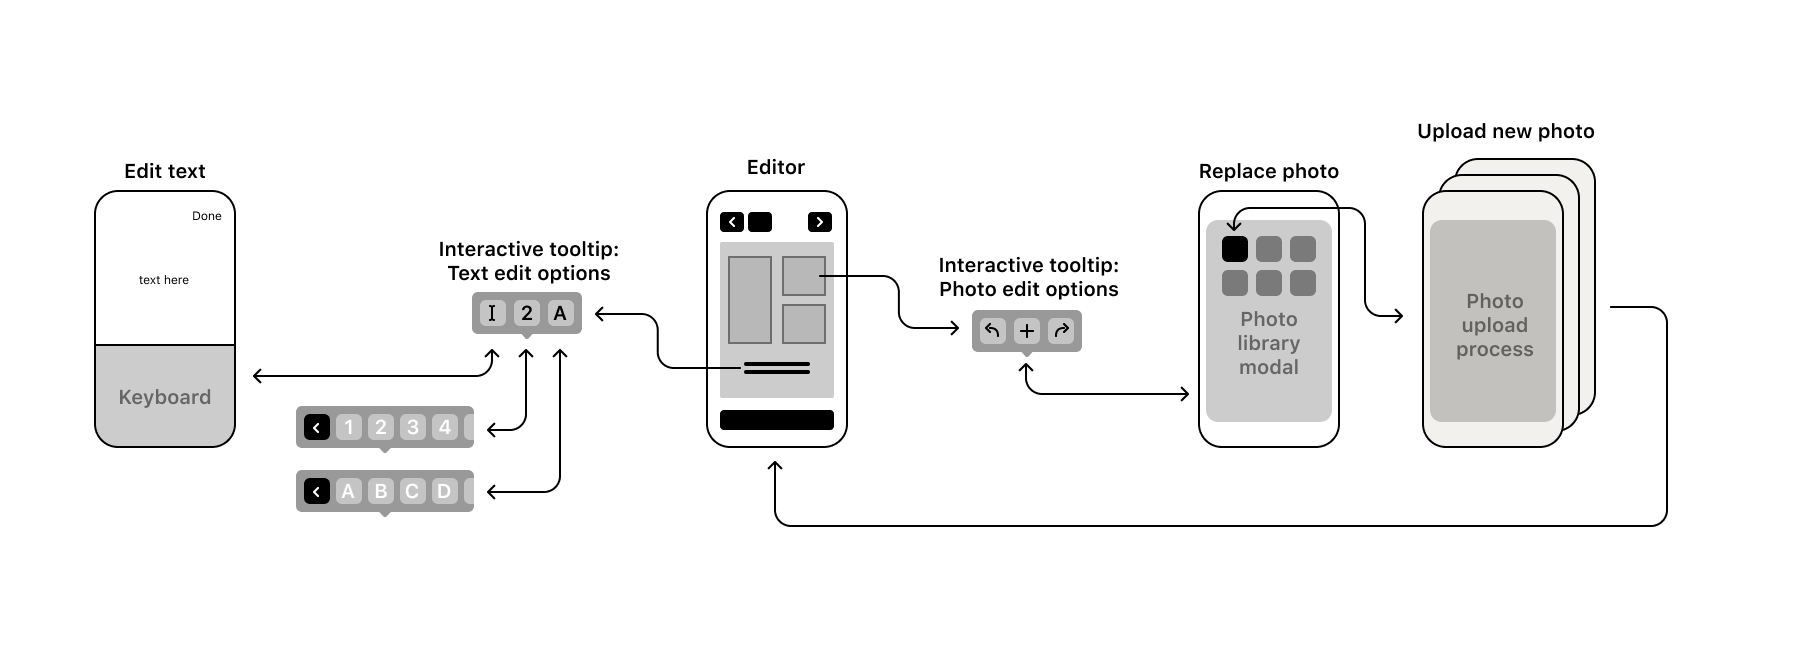
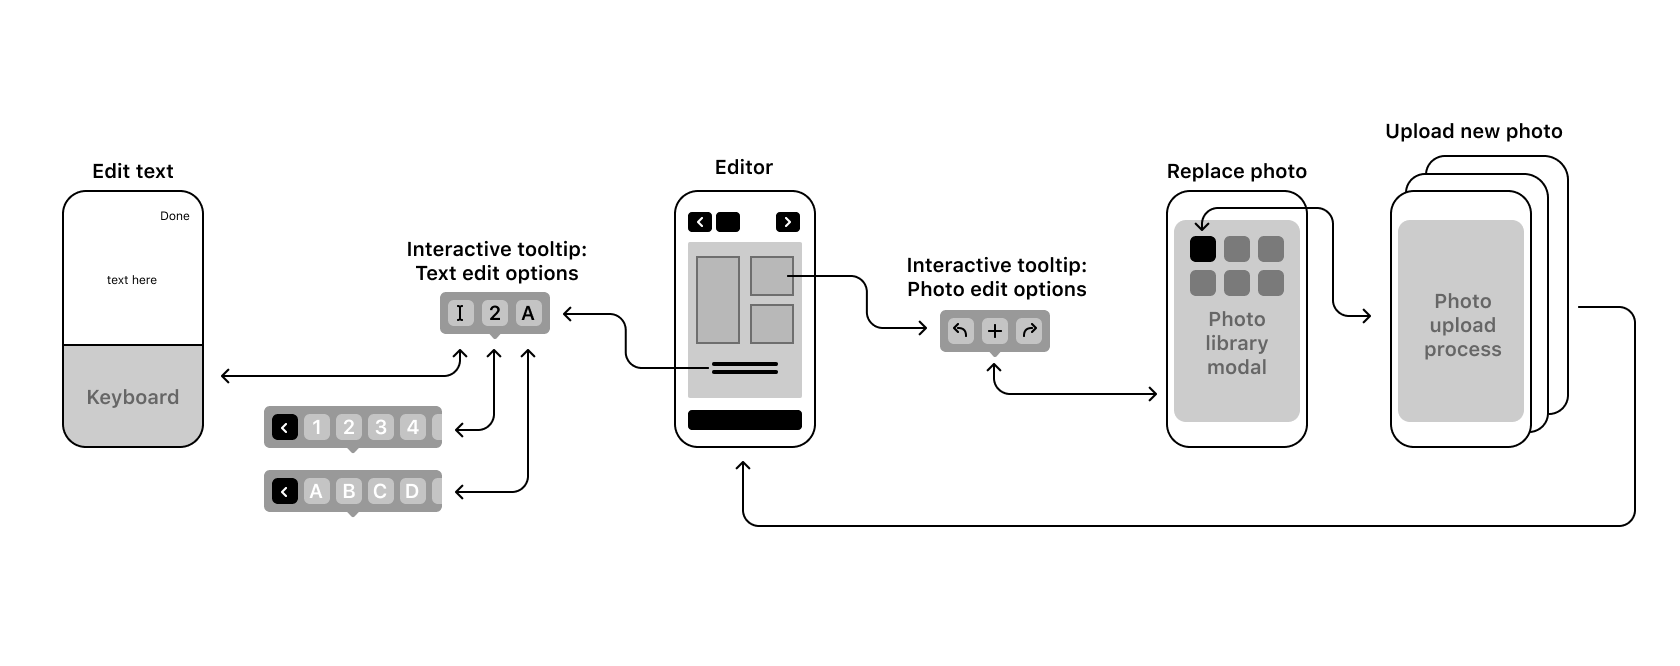
case study ordering

diff --git a/work/wedding-tools.html b/work/wedding-tools.html
@@ -64,7 +64,7 @@
         <p>There was an opportunity to step into this gap. I proposed we provide a way for wedding organizers to communicate with, and collect info from, their guests online using designs that matched their Papier wedding stationery.</p>
         <p>I led a cross-functional team on this project, bringing together commercial, customer service, creative design, and my own product design teams to deliver Papier’s first software product.</p>
         <h2>Research</h2>
-        <p>While our commercial team conducted exhaustive competitor analysis. I led a series of in-depth Jobs to be Done interviews. These insights would provide a north star for the project, and we would refer back to them often. The Jobs to be Done approach places value on the emotional context around customer behaviour, which helps us understand what drives decisions.</p>
+        <p>While our commercial team conducted exhaustive competitor analysis. I led a series of in-depth Jobs to be Done interviews. These insights would provide a north star for the project, and we would refer back to them often.</p>
         <p>We created a user journey map, laying out major wedding planning events and decisions. This helped the team contextualize the Jobs we were solving for, and later proved useful to our marketing team when it came to communicating the value proposition to our existing users at various stages in the customer lifecycle.</p>
       </div>
       <div class="content content__image">
@@ -76,21 +76,21 @@
         <p>The tool we were building was only valuable once a user had created a guest list, so adding guests was a vital part of onboarding. Our research told us that wedding organizers often had their own guests stored in spreadsheets already, so we made the option of uploading a spreadsheet a priority.</p>
       </div>
       <div class="content content__image">
-        <img src="../images/wedding-flow1.png" alt="">
+        <img src="../images/wedding-flow1.png" alt="" style="max-width: max-content;">
       </div>
       <div class="content content__text">
         <h2>Message Creation</h2>
         <p>Users would be able to create pages that they could share with guests via email or a sharable link. The wedding organizers could choose a design at this point - one that matched their pinted Papier stationery. These pages could become a save the date message, a request for mailing address, or a detailed multi-question RSVP form. </p>
       </div>
       <div class="content content__image">
-        <img src="../images/wedding-flow2.png" alt="">
+        <img src="../images/wedding-flow2.png" alt="" style="max-width: max-content;">
       </div>
       <div class="content content__text">
         <h2>The guest experience</h2>
         <p>Organizers would be able to share their messages in two ways: email, and a sharable link. The link in each email sent was specifically tied to that guest, but a 'public' link would be accessed by anybody. As a result we built a guest identification system - after clicking the link, a guest would have to type their own name in, which would allow them to submit RSVP replies.</p>
       </div>
       <div class="content content__image">
-        <img src="../images/wedding-flow3.png" alt="">
+        <img src="../images/wedding-flow3.png" alt="" style="max-width: max-content;">
       </div>
       <div class="content content__text">
         <p>Looking back, the assumption that users would choose the sharable link over the email delivery option was incorrect, and we spent too much time designing and building this user flow.</p>

diff --git a/work/stationery-editor.html b/work/stationery-editor.html
@@ -62,21 +62,8 @@
         <p>In 2020 I led a redesign of the Papier stationery editor - the step in the buying process where the user gets to add their own text, image, and design flair to the stationery items.</p>
         <h2>Research</h2>
         <p>Qualitative research revealed why we were seeing a poor conversion rate on mobile. There was confusion about how to progress, technical issues with touch interactions around text selection, and problems with how browser behaved with on-screen elements. With 75% of traffic on mobile this was something we needed to address.</p>
-      </div>
-      <div class="content content__image">
-        <img src="../images/ppp.png" alt="">
-      </div>
-      <p class="content content__text caption-centre">something</p>
-      <div class="content content__text">
         <h2>Approach</h2>
         <p>I spoke with our engineering team and we decided on a two-pronged approach. They would rewrite the technology behind the editor, while I would work to improve the interactions.</p>
-        <p>The solution needed to balance a b and c</p>
-      </div>
-      <div class="content content__image">
-        <img src="../images/editor-flow.png" alt="">
-      </div>
-      <p class="content content__text caption-centre">something</p>
-      <div class="content content__text">
         <p>I developed a bunch of ideas, starting on paper (in my Papier notebook of course), and moving quickly to prototyping in Figma and Framer.</p>
         <p>This step was particularly important because of the interactivity of the product. It was about how it felt to use, as much as how it looked.</p>
       </div>
@@ -84,6 +71,10 @@
         <img src="../images/editor-options.png" alt="">
       </div>
       <p class="content content__text caption-centre">We opted to move ahead with the third option above, and test whether users were comfortable with the full list of options being hidden behind a menu.</p>
+      <div class="content content__image">
+        <img src="../images/editor-flow.png" alt="" style="max-width: max-content;">
+      </div>
+      <p class="content content__text caption-centre">something</p>
       <div class="content content__image">
         <video width="228" height="494" autoplay loop muted style="border-radius: 30px; border: 10px #002554 solid; margin: 15px 0;">
           <source src="../images/editor-final.mp4" type="video/mp4">
@@ -98,7 +89,7 @@
       </div>
       <div class="content content__text">
           <h2>Results</h2>
-          <p>After releasing the updates we saw an increase in completion rates, and a decrease in the number of customer support tickets in relation to issues within the editor, meaning additional revenue and time saved for our customer experience agents!</p>
+          <p>After releasing the updates we saw a 12% increase in completion rates, and a decrease in the number of customer support tickets in relation to issues within the editor, meaning additional revenue and time saved for our customer experience agents!</p>
           <h2>An unexpected finding</h2>
           <p>After the initial release, I launched a three-step how-to widget, explaining how to use the editor for first time users. This totally bombed.</p>
       </div>

diff --git a/work/papier-app.html b/work/papier-app.html
@@ -90,7 +90,7 @@
         <p>With a strategy, clear goals, and something to help decision-makers visualise the product, I was given the go-ahead.</p>
       </div>
       <div class="content content__image">
-        <img src="../images/app-flow.png" alt="">
+        <img src="../images/app-flow.png" alt="" style="max-width: max-content;">
       </div>
       <p class="content content__text caption-centre">The initial user journey map</p>
       <div class="content content__text">
